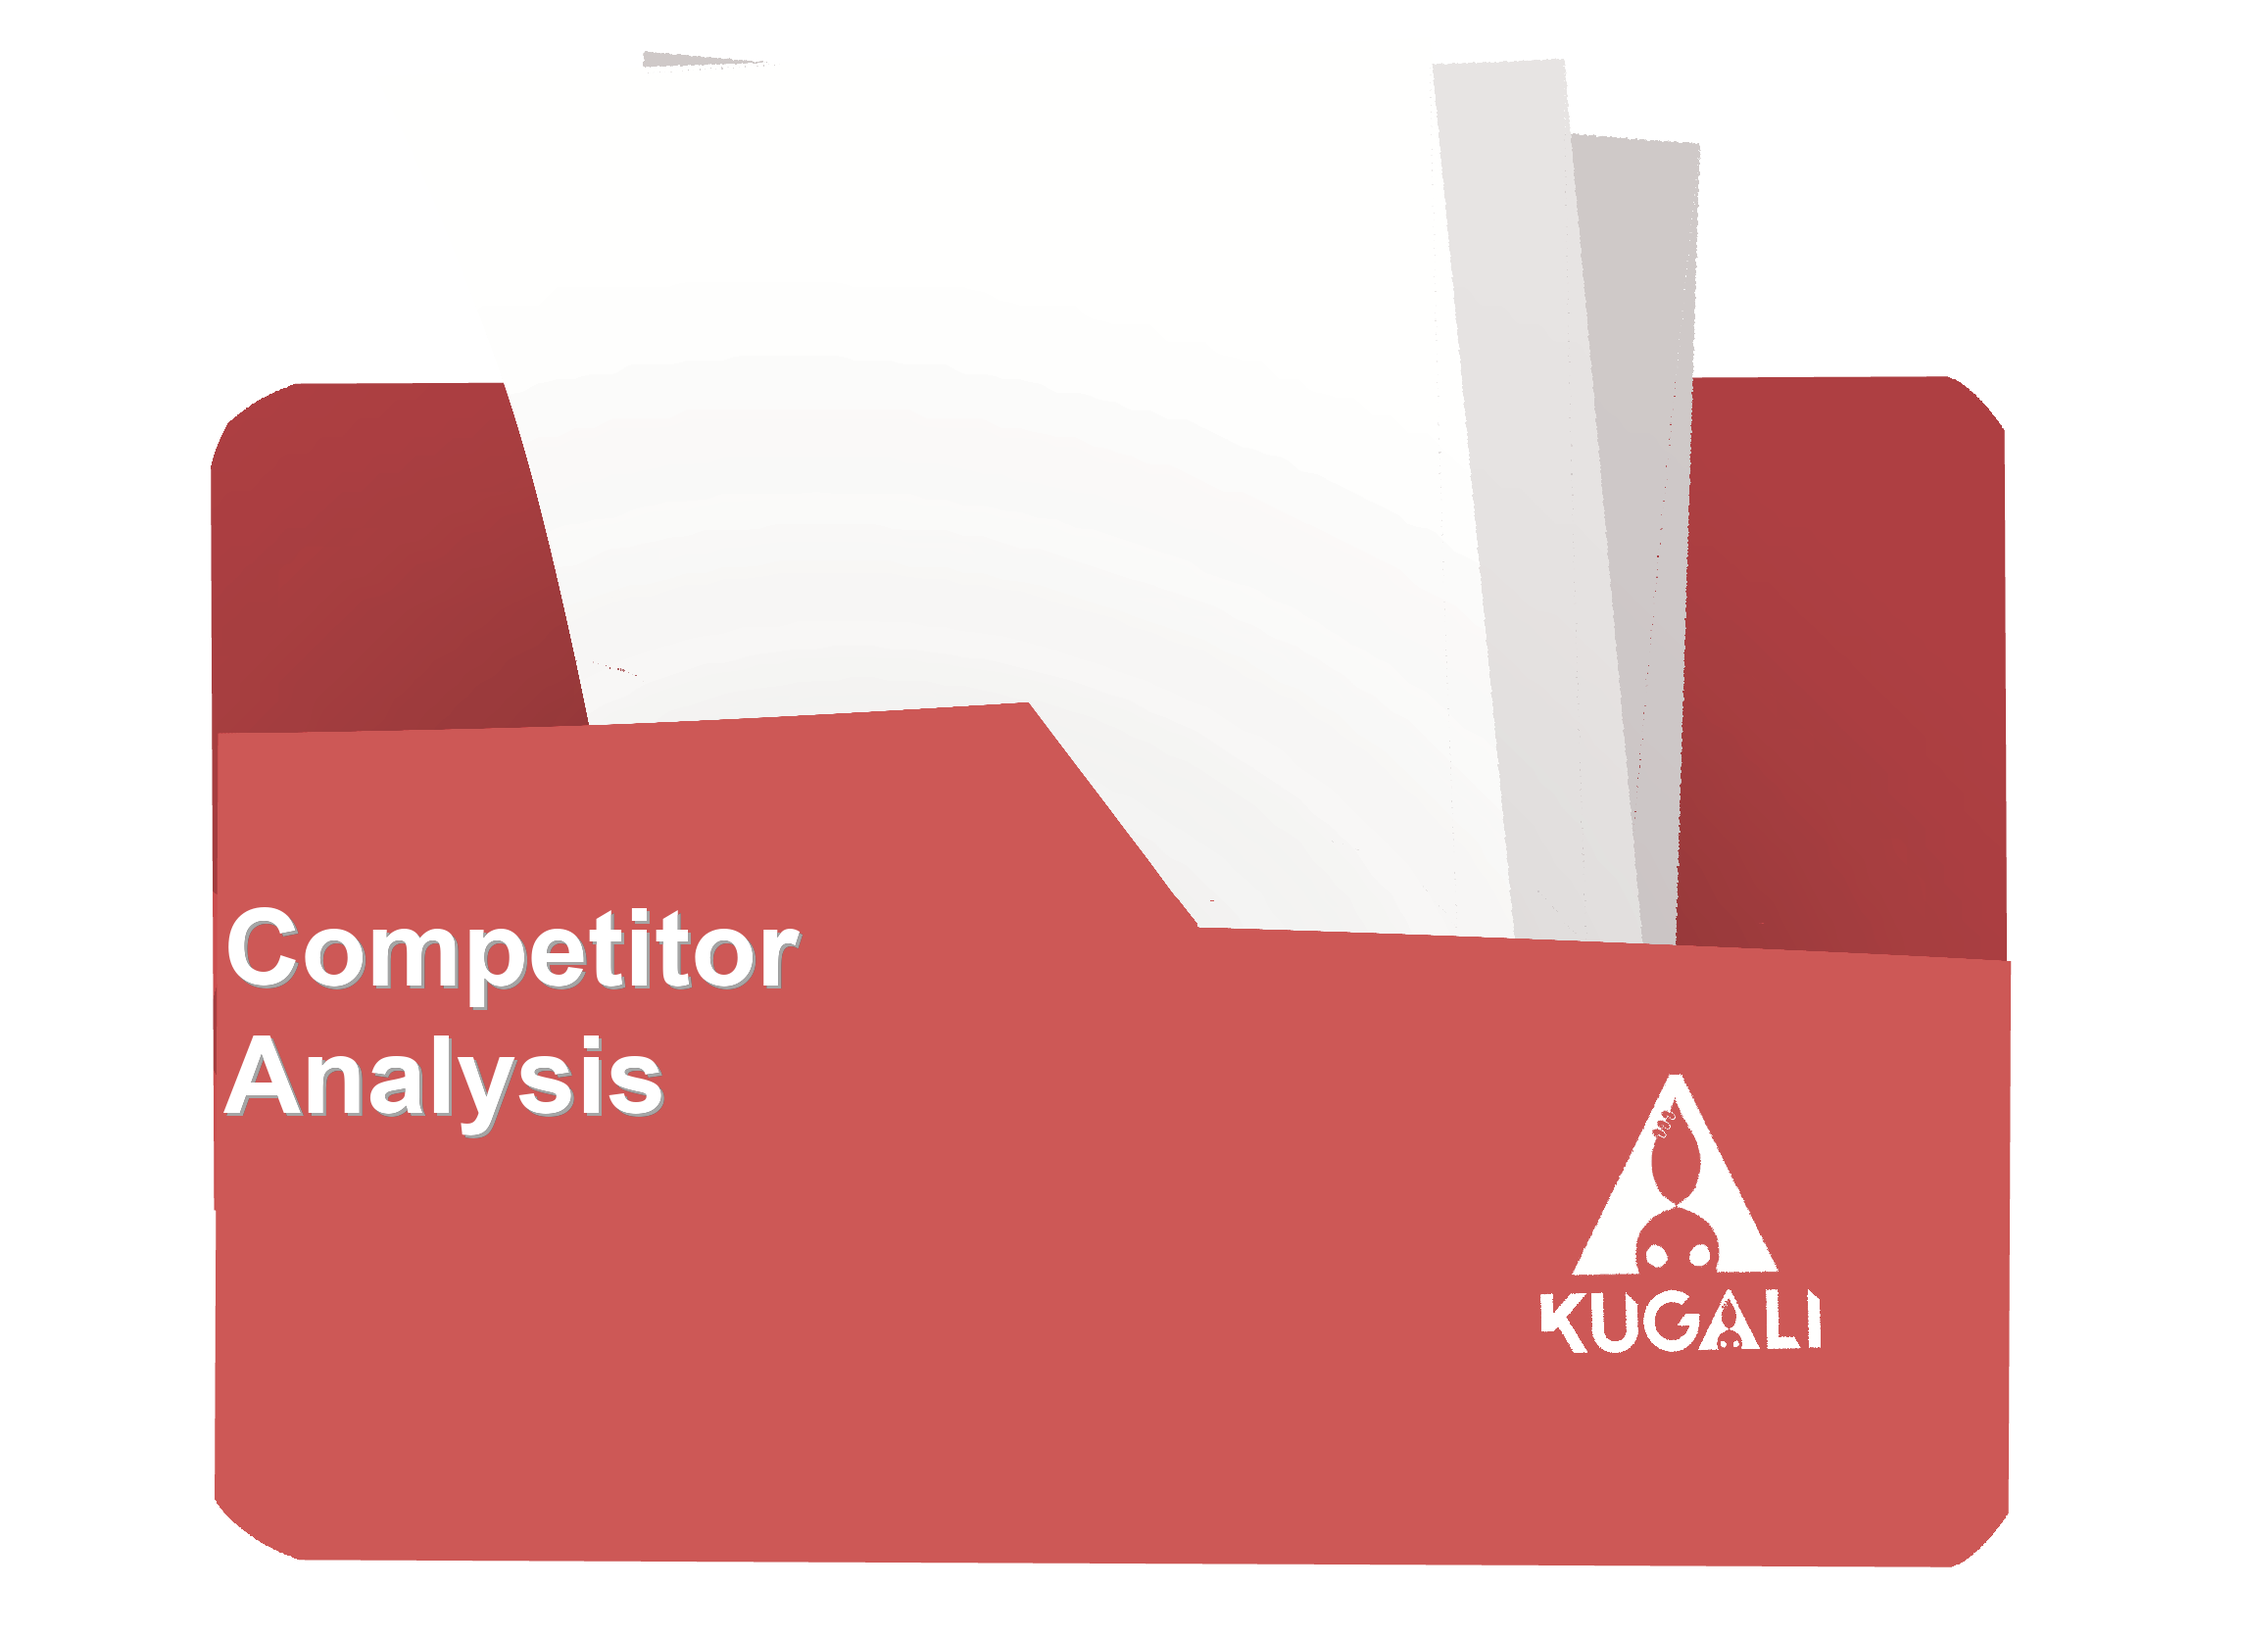
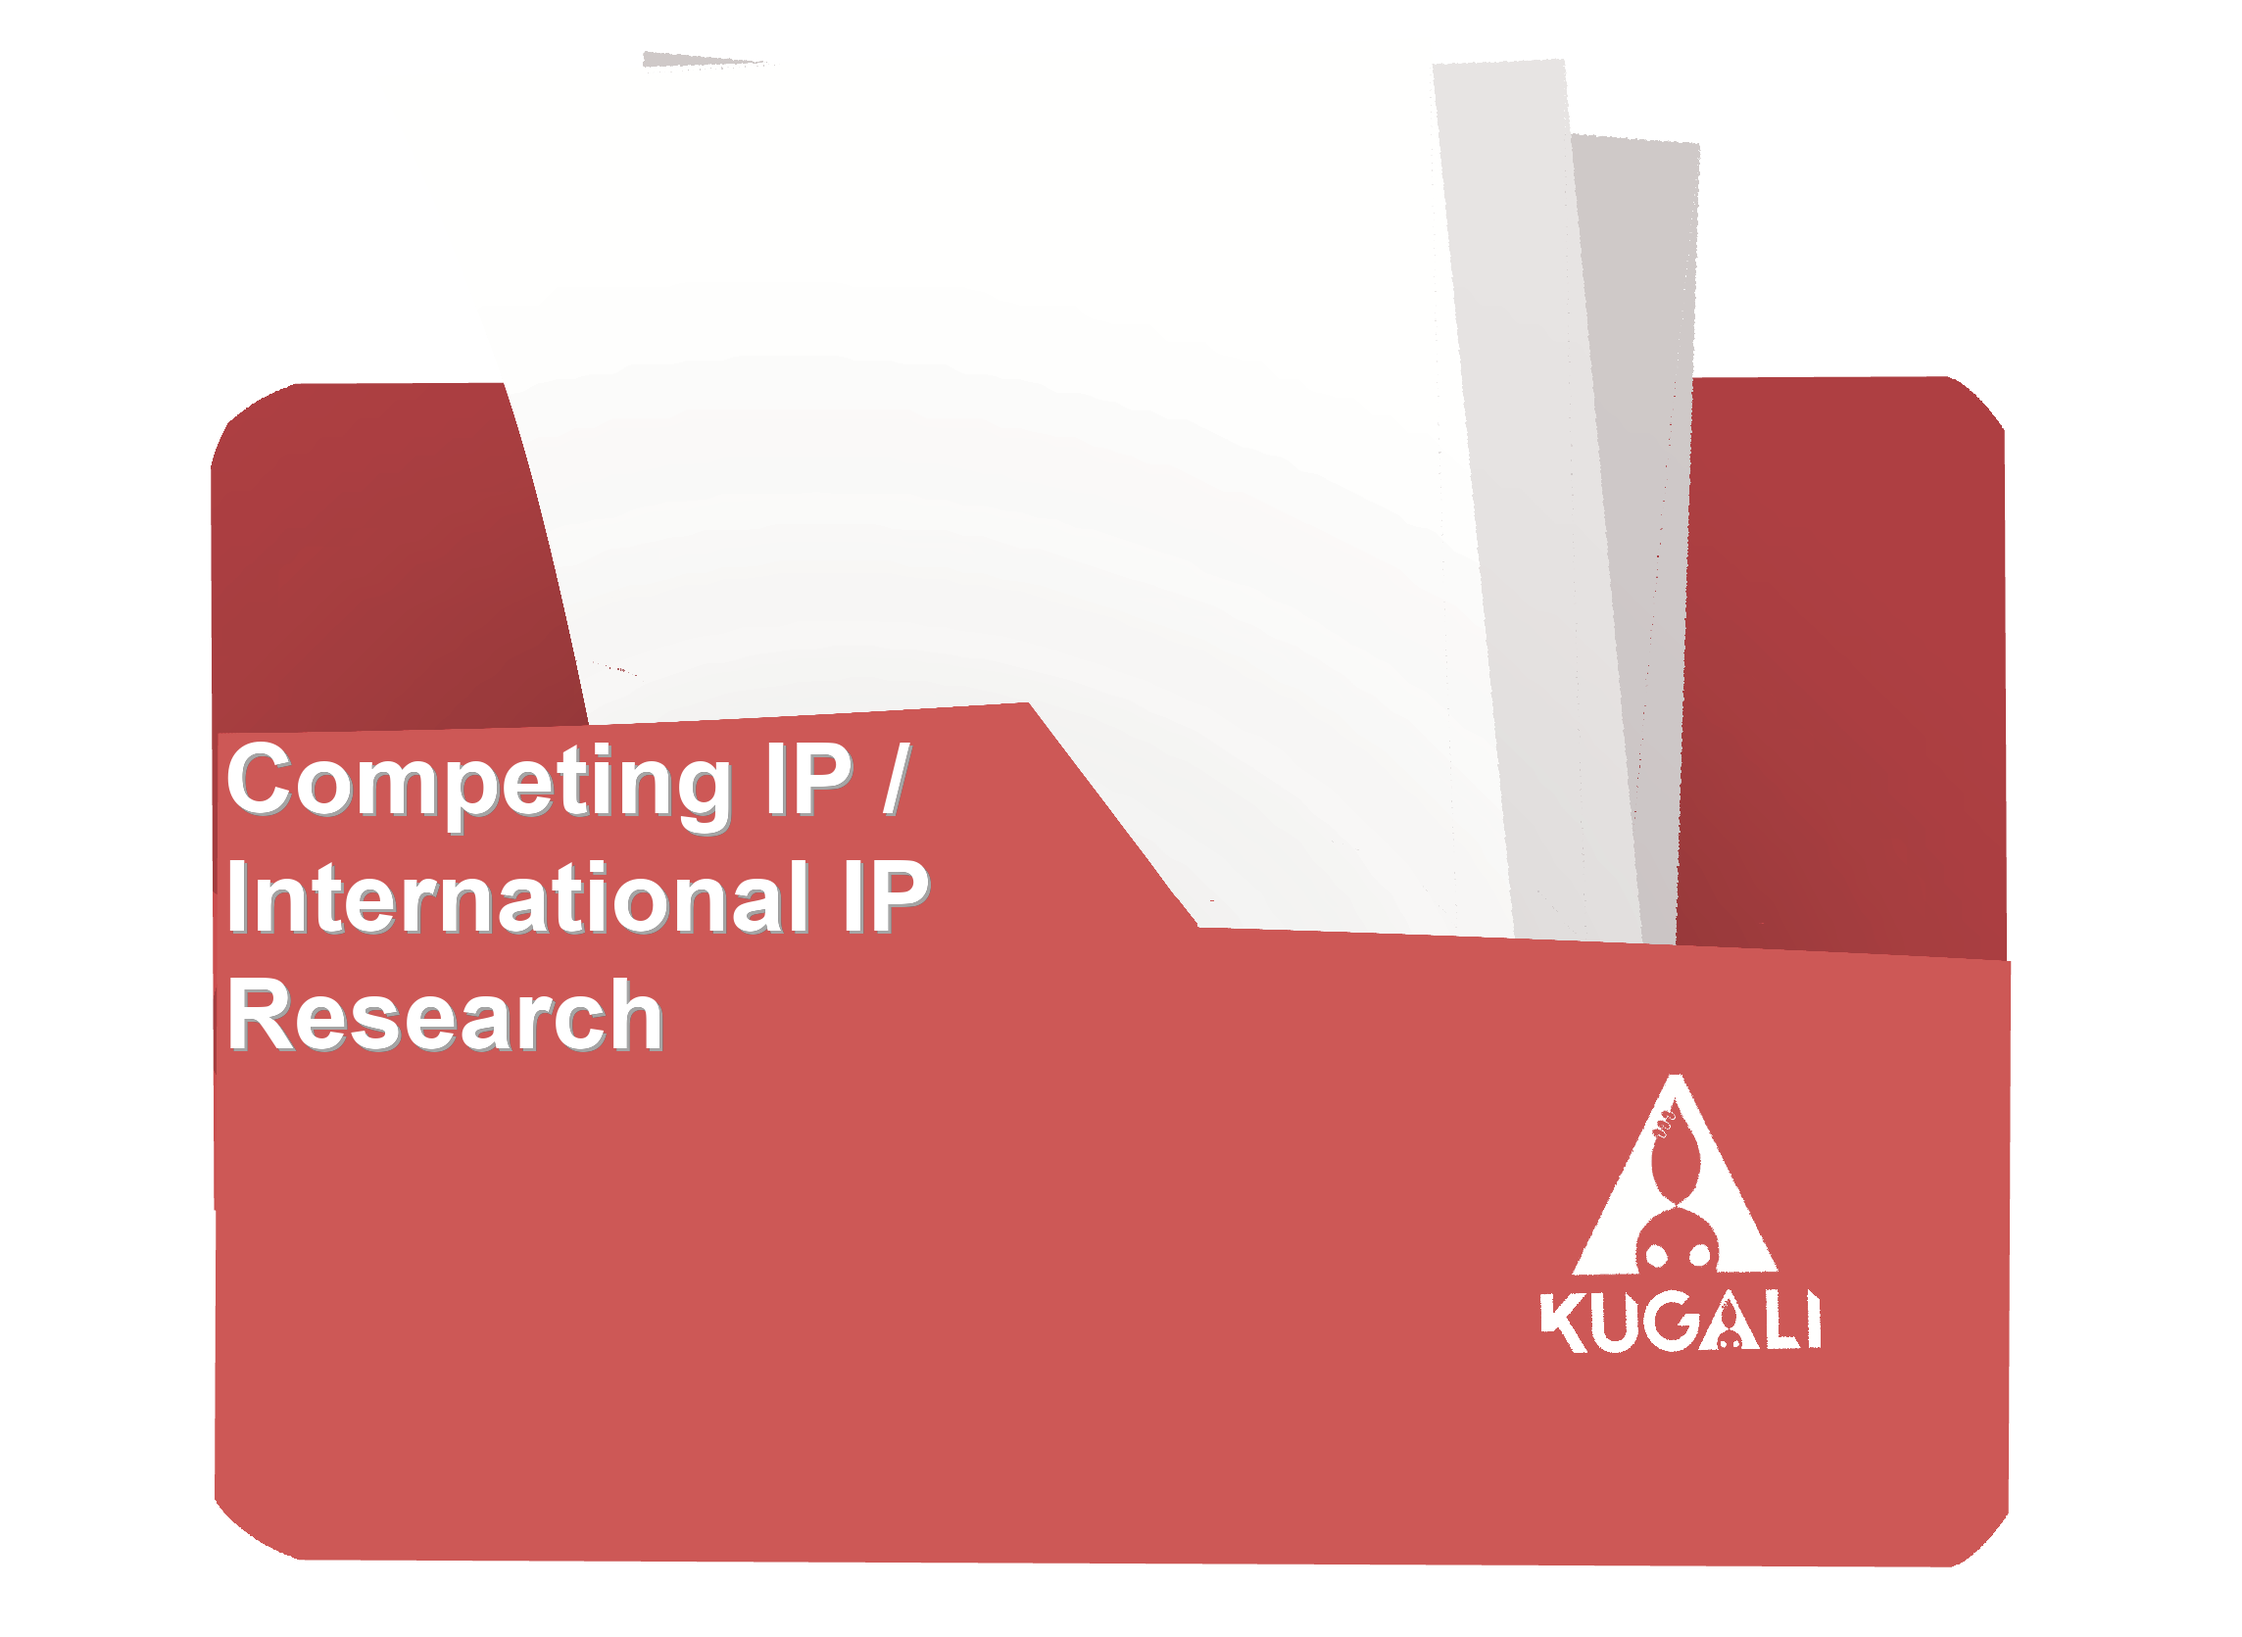
Redesign Kugali Featured Campaigns as small uncropped cards, add quotes to home and /work pages
- New CampaignCardsGallery ("cards" slide layout): small uncropped
  thumbnails (object-contain, no cropping) that fit in one scrollable
  row on desktop with a text description underneath each, and wrap to
  a 2-column grid on mobile with no description (space-constrained)
- Rename Kugali's competitor-analysis card art to "Competing IP /
  International IP Research" and reorder the Design Strategy
  slideshow so the style-guide image is second
- Rename Kugali's "Featured Campaign" slide to "Featured Campaigns"
- Home page: add the Live Nation quote (styled like the yellow hero
  tagline) between the RoleNav grid and the résumé card, desktop only
- /work page: move all project quotes plus the Ricky Horne one into a
  two-column row right under the "creative storytelling throughline"
  banner, and show the polaroid grid at 2 columns on mobile so more
  than one card is visible at a time

Changed region(s): [[0.0931, 0.4357, 0.4344, 0.7157]]

diff --git a/content/site.ts b/content/site.ts
@@ -78,8 +78,8 @@ export type Slide = {
   subtitle?: string;
   images?: SlideImage[];
   sections: SlideSection[];
-  /** Defaults to "grid". "slideshow" renders a single-image carousel with Prev/Next. "filmstrip" shows every image at once, edge-to-edge, in a horizontally scrollable strip. */
-  layout?: "grid" | "slideshow" | "filmstrip";
+  /** Defaults to "grid". "slideshow" renders a single-image carousel with Prev/Next. "filmstrip" shows every image at once, edge-to-edge, in a horizontally scrollable strip. "cards" shows small uncropped thumbnails with a caption underneath (desktop only) - wraps to a 2-column grid on mobile, scrolls horizontally on desktop. */
+  layout?: "grid" | "slideshow" | "filmstrip" | "cards";
 };
 
 export type Project = {
@@ -171,12 +171,25 @@ export const projects: Project[] = [
         sections: [],
       },
       {
-        title: "Featured Campaign",
+        title: "Featured Campaigns",
+        layout: "cards",
         images: [
-          { src: "/images/campaigns/kugali-campaign-competitor-analysis.png" },
-          { src: "/images/campaigns/kugali-campaign-jollof-wars-pitch.png" },
-          { src: "/images/campaigns/kugali-campaign-razorman-pitch.png" },
-          { src: "/images/campaigns/kugali-campaign-emmys-social-strategy.png" },
+          {
+            src: "/images/campaigns/kugali-campaign-competitor-analysis.png",
+          },
+          {
+            src: "/images/campaigns/kugali-campaign-jollof-wars-pitch.png",
+            caption: "Internal marketing strategy and positioning slides",
+          },
+          {
+            src: "/images/campaigns/kugali-campaign-razorman-pitch.png",
+            caption: "Producer-facing pitch research & slides",
+          },
+          {
+            src: "/images/campaigns/kugali-campaign-emmys-social-strategy.png",
+            caption:
+              "IP & festival releases research & strategy, as well as live day-of social media campaign - active posting",
+          },
         ],
         sections: [],
       },
@@ -186,9 +199,9 @@ export const projects: Project[] = [
         layout: "slideshow",
         images: [
           { src: "/images/campaigns/kugali-design-strategy-shirts.png" },
+          { src: "/images/campaigns/kugali-design-strategy-guide.jpg" },
           { src: "/images/campaigns/kugali-design-strategy-card-mockup.png" },
           { src: "/images/campaigns/kugali-design-strategy-title-art.jpg" },
-          { src: "/images/campaigns/kugali-design-strategy-guide.jpg" },
         ],
         sections: [],
       },

diff --git a/components/CampaignCardsGallery.tsx b/components/CampaignCardsGallery.tsx
@@ -1,0 +1,72 @@
+"use client";
+
+import { useState } from "react";
+import Image from "next/image";
+import type { SlideImage } from "@/content/site";
+
+export default function CampaignCardsGallery({ images }: { images: SlideImage[] }) {
+  const [openIndex, setOpenIndex] = useState<number | null>(null);
+  const current = openIndex !== null ? images[openIndex] : null;
+
+  return (
+    <>
+      <div className="grid grid-cols-2 gap-4 sm:flex sm:gap-3 sm:overflow-x-auto sm:pb-2">
+        {images.map((img, i) => (
+          <div key={img.src} className="flex flex-col sm:w-40 sm:flex-none">
+            <button
+              type="button"
+              onClick={() => setOpenIndex(i)}
+              aria-label={img.caption ? `Enlarge: ${img.caption}` : "Enlarge image"}
+              className="relative aspect-[4/3] w-full cursor-zoom-in overflow-hidden rounded-lg border border-beige/15 bg-white/5"
+            >
+              <Image
+                src={img.src}
+                alt={img.caption ?? ""}
+                fill
+                className="object-contain p-1.5"
+                sizes="(min-width: 640px) 160px, 45vw"
+              />
+            </button>
+            {img.caption && (
+              <p className="mt-2 hidden text-xs leading-snug text-beige/70 sm:block">
+                {img.caption}
+              </p>
+            )}
+          </div>
+        ))}
+      </div>
+
+      {current && (
+        <div
+          className="fixed inset-0 z-50 flex items-center justify-center bg-black/90 p-4 sm:p-10"
+          onClick={() => setOpenIndex(null)}
+        >
+          <button
+            type="button"
+            onClick={() => setOpenIndex(null)}
+            aria-label="Close"
+            className="absolute right-4 top-4 text-3xl leading-none text-white/80 hover:text-white sm:right-8 sm:top-8"
+          >
+            ×
+          </button>
+          <div
+            className="relative flex max-h-full max-w-full flex-col items-center"
+            onClick={(e) => e.stopPropagation()}
+          >
+            <Image
+              src={current.src}
+              alt={current.caption ?? ""}
+              width={1600}
+              height={1600}
+              className="max-h-[85vh] w-auto max-w-full object-contain"
+              sizes="100vw"
+            />
+            {current.caption && (
+              <p className="mt-3 text-center text-sm text-white/70">{current.caption}</p>
+            )}
+          </div>
+        </div>
+      )}
+    </>
+  );
+}

diff --git a/app/work/page.tsx b/app/work/page.tsx
@@ -4,6 +4,14 @@ import Nav from "@/components/Nav";
 import AdditionalExperience from "@/components/AdditionalExperience";
 import { projects } from "@/content/site";
 
+const allQuotes = [
+  ...projects.flatMap((p) => p.quotes ?? []),
+  {
+    text: "I'd gladly hire her again if you don't beat me to it.",
+    attribution: "Ricky Horne Jr., UCLA Student Affairs",
+  },
+];
+
 export default function WorkPage() {
   return (
     <>
@@ -25,7 +33,16 @@ export default function WorkPage() {
             8 roles, 16 experiences, 1 creative storytelling throughline.
           </span>
 
-          <div className="mt-14 grid grid-cols-1 gap-x-8 gap-y-14 sm:grid-cols-2 lg:grid-cols-4">
+          <div className="mt-10 grid grid-cols-1 gap-x-8 gap-y-6 sm:grid-cols-2">
+            {allQuotes.map((quote) => (
+              <blockquote key={quote.attribution} className="border-l-4 border-accent/60 pl-5">
+                <p className="text-base italic text-ink">&ldquo;{quote.text}&rdquo;</p>
+                <footer className="mt-2 text-xs text-ink/70">— {quote.attribution}</footer>
+              </blockquote>
+            ))}
+          </div>
+
+          <div className="mt-14 grid grid-cols-2 gap-x-8 gap-y-14 lg:grid-cols-4">
             {projects.map((project) => {
               const cardSrc = project.cardImage ?? project.image;
               const useContain = !project.cardImage && project.imageFit === "contain";
@@ -69,15 +86,6 @@ export default function WorkPage() {
               );
             })}
           </div>
-
-          <blockquote className="mx-auto mt-16 max-w-xl border-l-4 border-accent/60 pl-5">
-            <p className="text-lg italic text-ink">
-              &ldquo;I&apos;d gladly hire her again if you don&apos;t beat me to it.&rdquo;
-            </p>
-            <footer className="mt-2 text-sm text-ink/70">
-              — Ricky Horne Jr., UCLA Student Affairs
-            </footer>
-          </blockquote>
         </div>
       </section>
       <AdditionalExperience />

diff --git a/app/projects/[slug]/page.tsx b/app/projects/[slug]/page.tsx
@@ -3,6 +3,7 @@ import { notFound } from "next/navigation";
 import Nav from "@/components/Nav";
 import SlideGallery from "@/components/SlideGallery";
 import FilmstripGallery from "@/components/FilmstripGallery";
+import CampaignCardsGallery from "@/components/CampaignCardsGallery";
 import EnlargeableImage from "@/components/EnlargeableImage";
 import RoleNav from "@/components/RoleNav";
 import { projects } from "@/content/site";
@@ -144,6 +145,8 @@ export default async function ProjectPage(
                         <SlideGallery images={slide.images!} />
                       ) : slide.layout === "filmstrip" ? (
                         <FilmstripGallery images={slide.images!} />
+                      ) : slide.layout === "cards" ? (
+                        <CampaignCardsGallery images={slide.images!} />
                       ) : (
                       <div
                         className={

diff --git a/components/Projects.tsx b/components/Projects.tsx
@@ -84,6 +84,17 @@ export default function Projects() {
           <RoleNav activeSlug={activeSlug} onFeaturedClick={setActiveSlug} />
         </div>
 
+        <blockquote className="mt-10 hidden max-w-2xl border-l-4 border-accent/60 pl-5 lg:block">
+          <p className="font-hand text-2xl text-accent">
+            &ldquo;She has an incredible eye for detail and a sharp instinct for storytelling,
+            which allowed her to translate complex ideas into something visually compelling and
+            emotionally resonant.&rdquo;
+          </p>
+          <footer className="mt-2 text-sm text-ink/70">
+            — Soukee Van Orden, Director of Strategic Partnerships and Operations, CURATED by Live Nation
+          </footer>
+        </blockquote>
+
         <div className="mt-8 flex flex-wrap items-center justify-center gap-4 lg:hidden">
           <Link
             href="/work"
